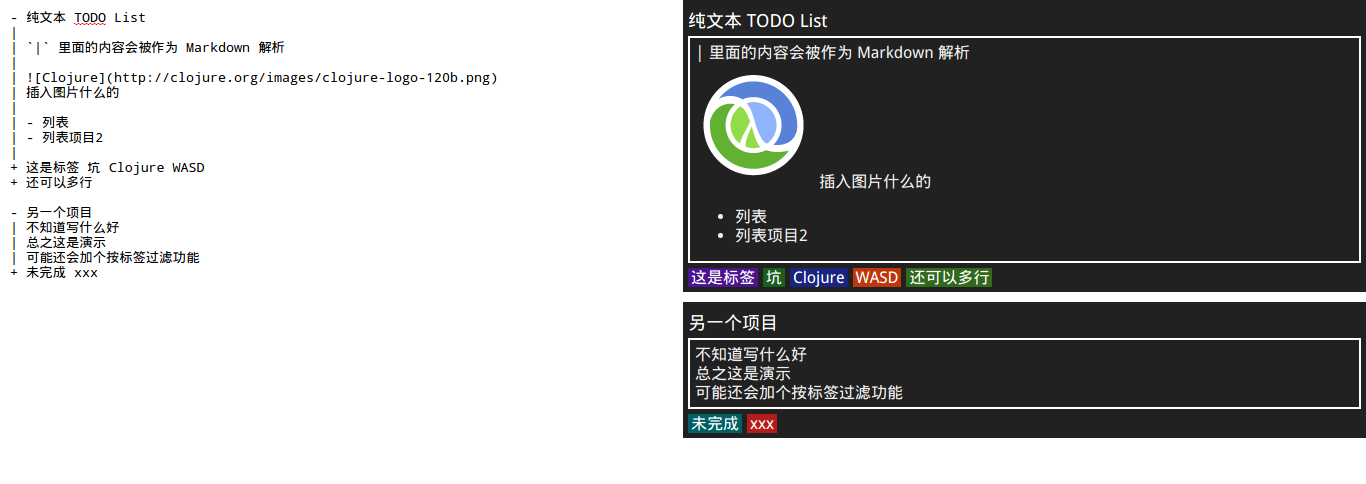
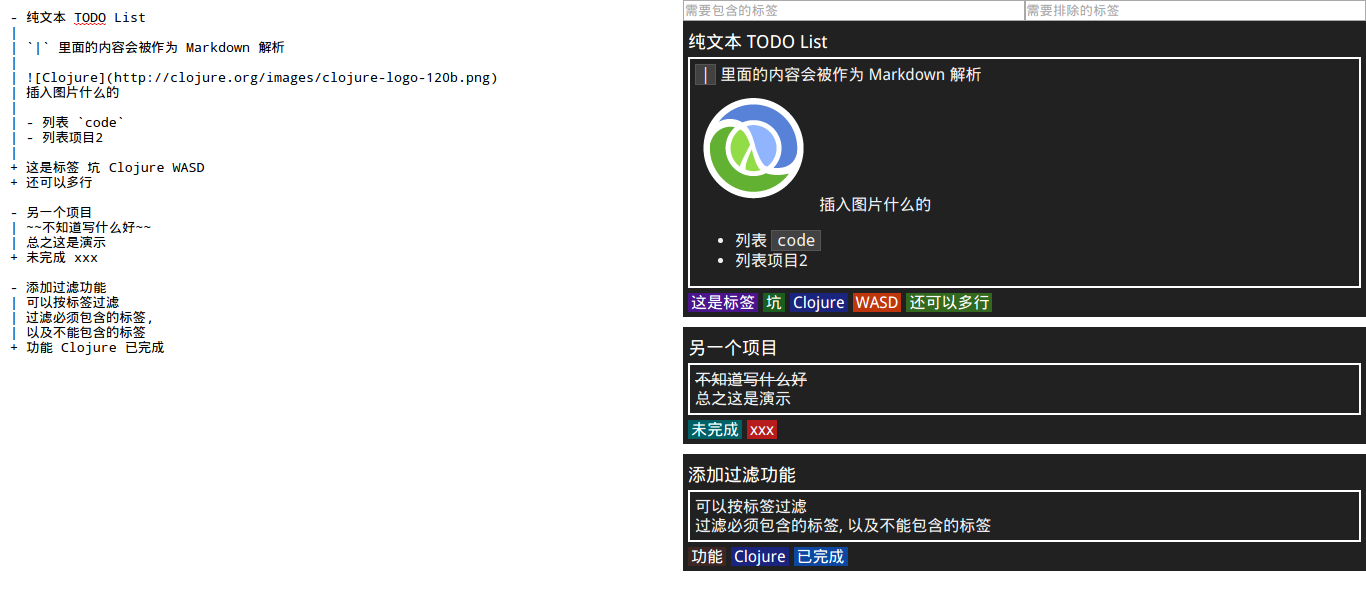
Add tag filter

Changed region(s): [[0.4919, 0.0, 1.0, 0.9607], [0.0, 0.0, 0.369, 0.6198]]

diff --git a/resources/public/index.html b/resources/public/index.html
@@ -11,6 +11,10 @@
         <textarea id="input-box"></textarea>
       </div>
       <div class="box">
+        <div class="search">
+          <input id="search-contain" placeholder="需要包含的标签"></input>
+          <input id="search-exclude" placeholder="需要排除的标签"></input>
+        </div>
         <div id="view-box">
         </div>
       </div>

diff --git a/resources/public/css/style.css b/resources/public/css/style.css
@@ -2,6 +2,13 @@ body {
     margin: 0;
 }
 
+code {
+    background: #424242;
+    border: 1px solid rgba(255,255,255,.1);
+    padding: 0 .3em;
+    display: inline-block;
+}
+
 #app {
     display: flex;
     height: 100vh;
@@ -29,6 +36,14 @@ body {
 }
 
 #view-box {
+}
+
+.search {
+    display: flex;
+}
+
+.search input {
+    width: 50%;
 }
 
 p {
